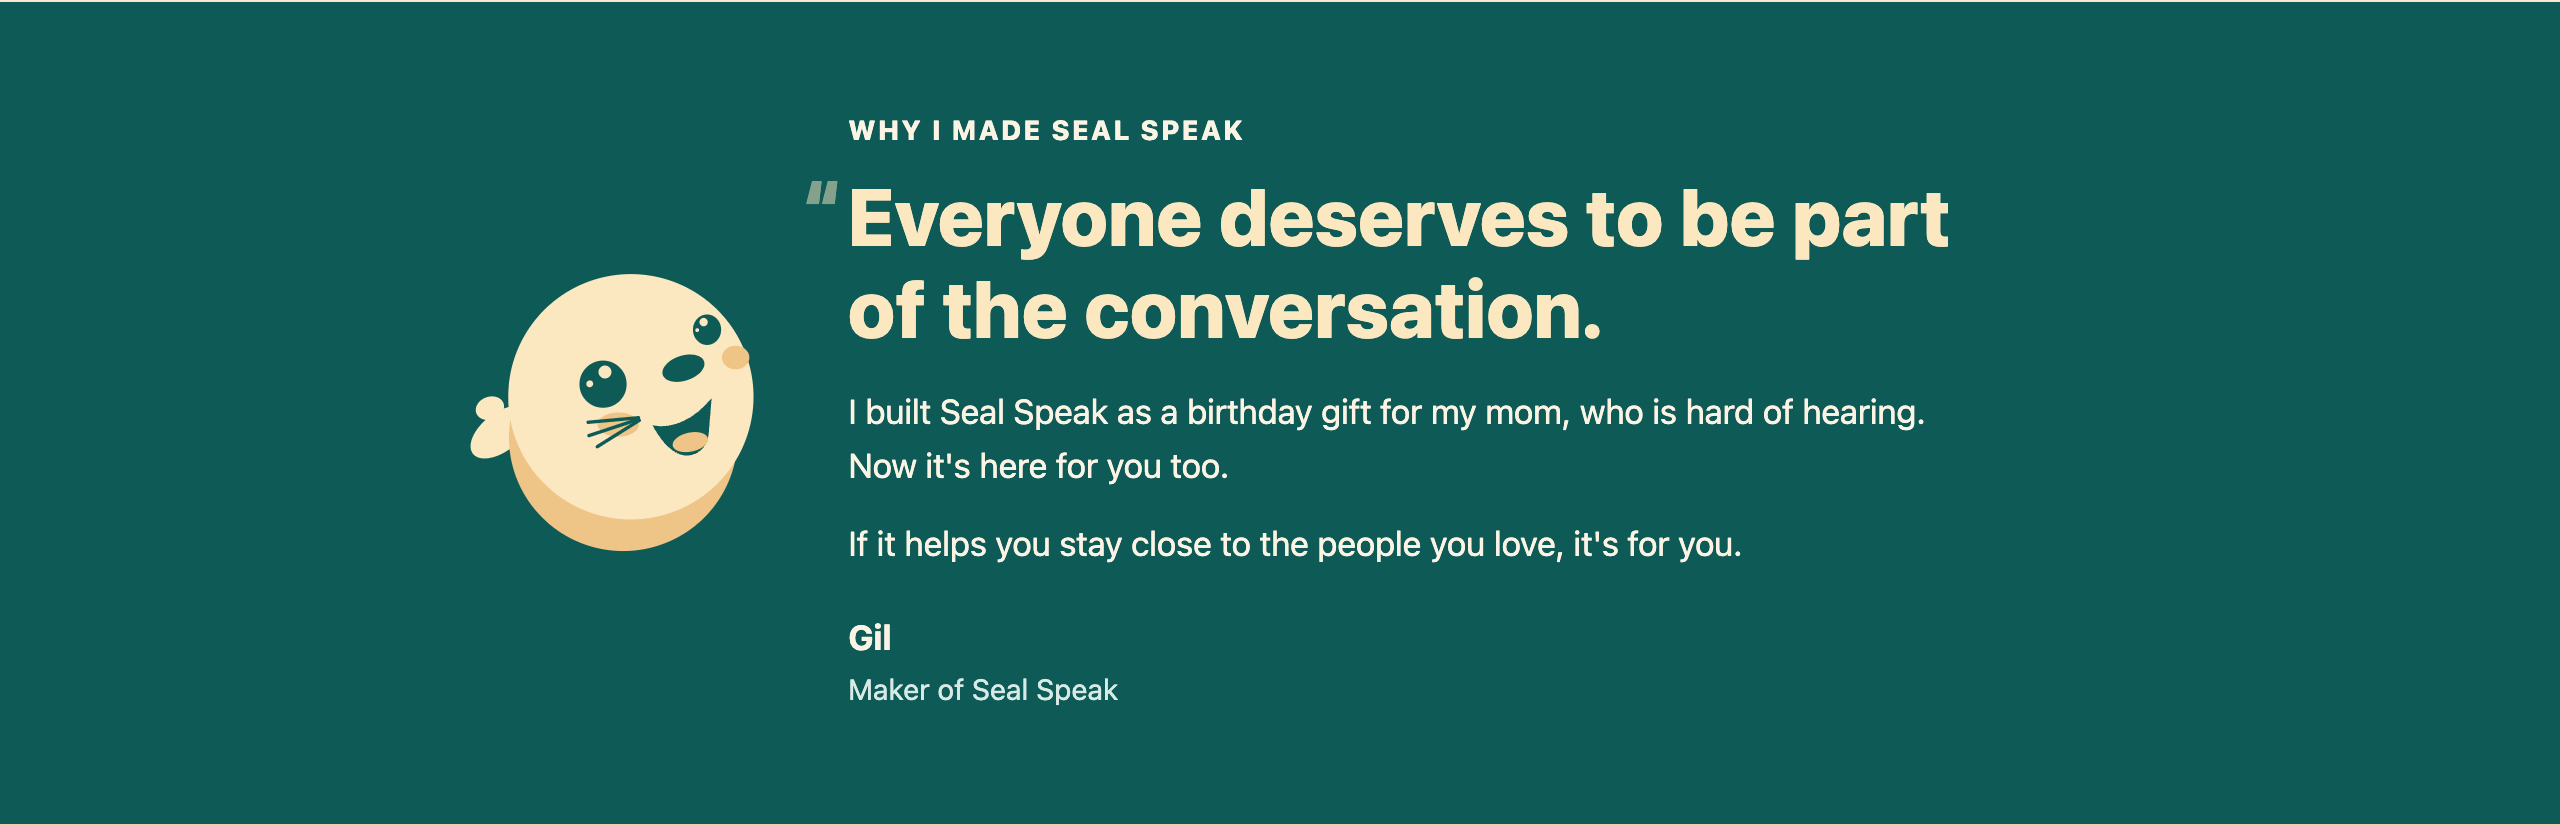
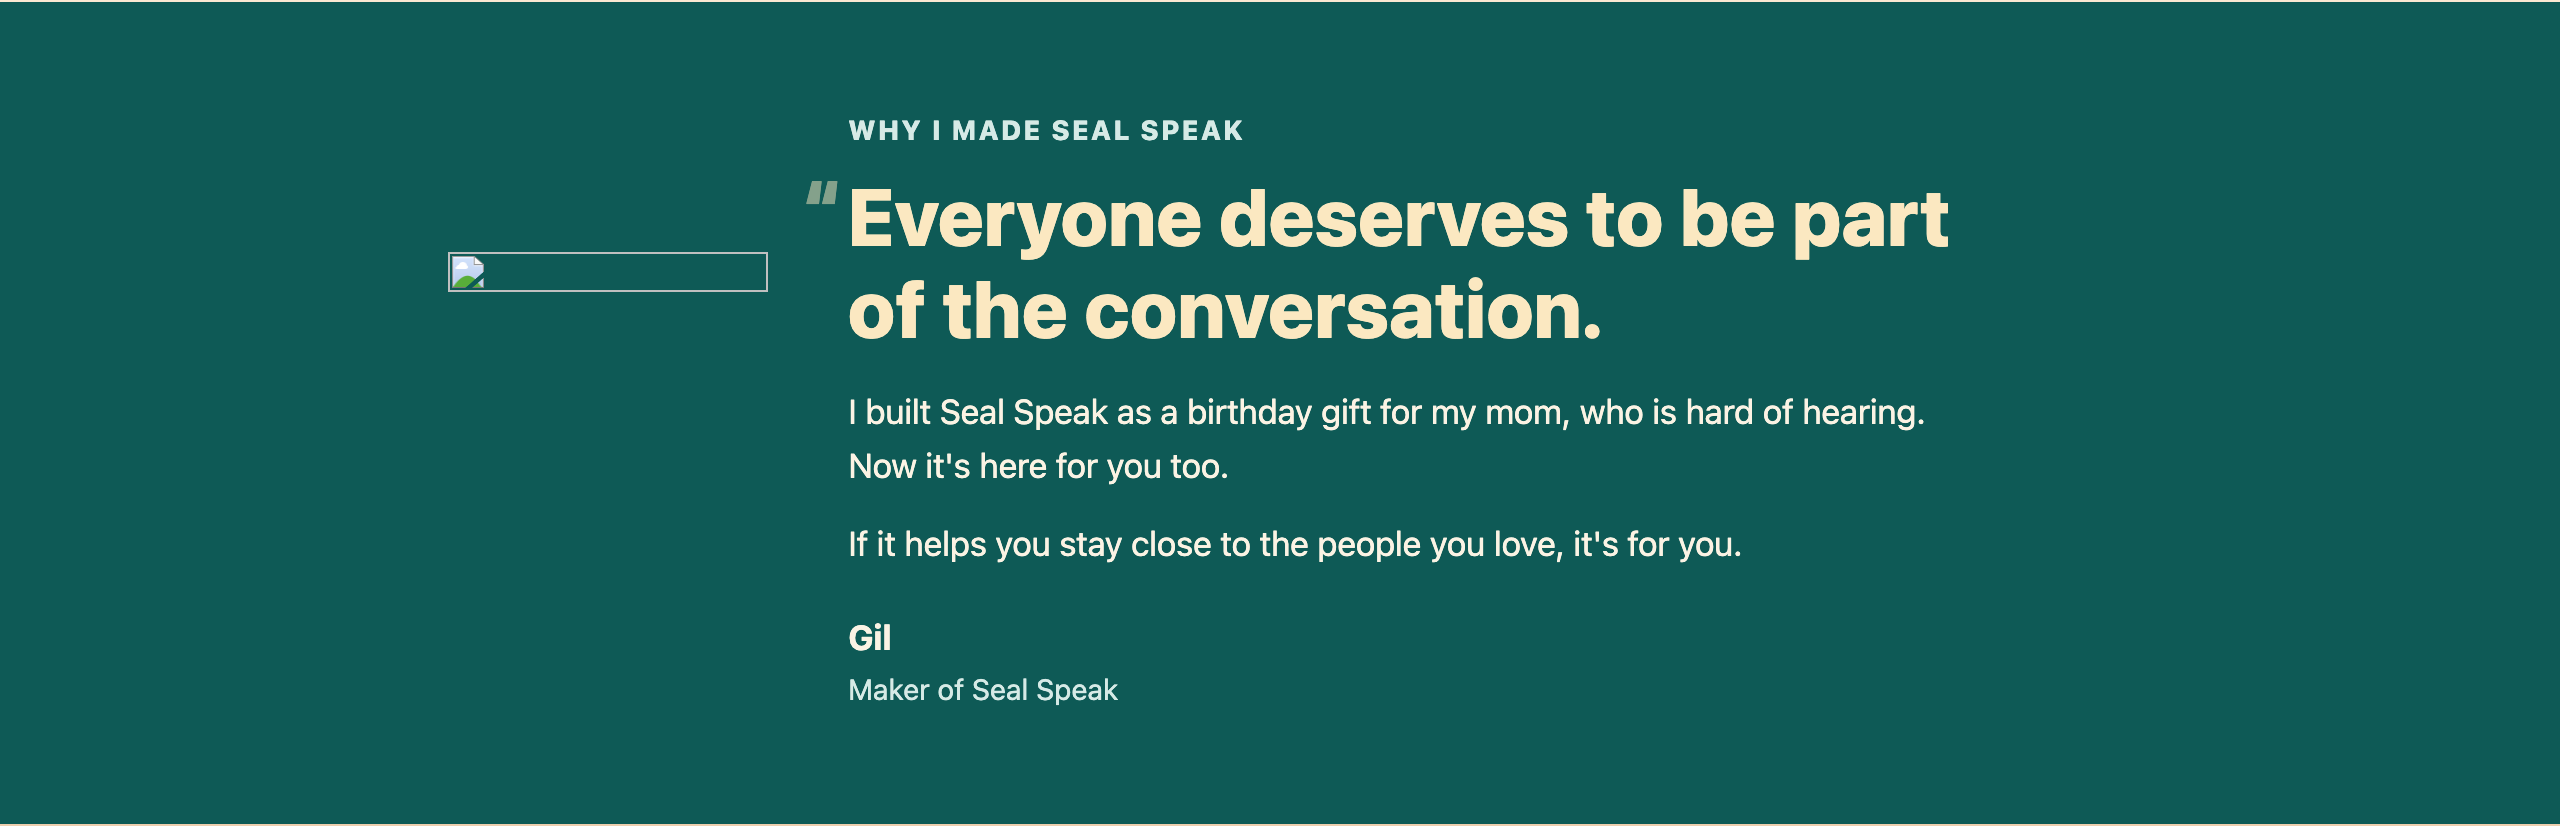
Site: story heading uses a colour, not faded text (#184)
The motion check reads faded text as hidden; a lighter colour gives the same look.

Claude-Session: https://claude.ai/code/session_01W1B2gd2TVudhLMGAQoCPnp

Changed region(s): [[0.1562, 0.3027, 0.3125, 0.6659], [0.3125, 0.1513, 0.5, 0.1816]]

diff --git a/site/index.html b/site/index.html
@@ -219,7 +219,7 @@
   .story-seal { width: 160px; height: auto; display: block; }
   .story-quote { margin: 0; }
   .story-quote blockquote { margin: 0; }
-  .story-kicker { font-size: .85rem !important; font-weight: 800; letter-spacing: .08em; text-transform: uppercase; margin: 0 0 .75rem !important; opacity: .8; }
+  .story-kicker { font-size: .85rem !important; font-weight: 800; letter-spacing: .08em; text-transform: uppercase; margin: 0 0 .75rem !important; color: #D6EAE6; }
   .story p { margin: 0 0 .75rem; max-width: 36rem; }
   .story-lead { font-size: clamp(1.7rem, 3.6vw, 2.5rem); line-height: 1.15; font-weight: 800; color: #FBE8C1; margin-bottom: 1rem !important; position: relative; }
   .story-lead::before { content: '\201C'; position: absolute; left: -.55em; top: -.1em; opacity: .5; }
@@ -228,7 +228,7 @@
   .story a { color: #FBE8C1; }
   @media (prefers-color-scheme: dark) {
     section.band.story { background: #FBE8C1; color: #141419; }
-    .story-lead, .story a { color: #0E5A56; }
+    .story-lead, .story a, .story-kicker { color: #0E5A56; }
     .story-sign span { color: #56625F; }
   }
 
